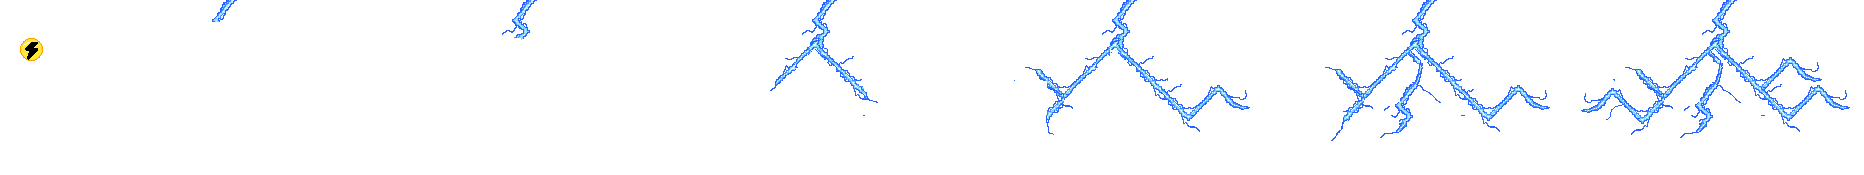
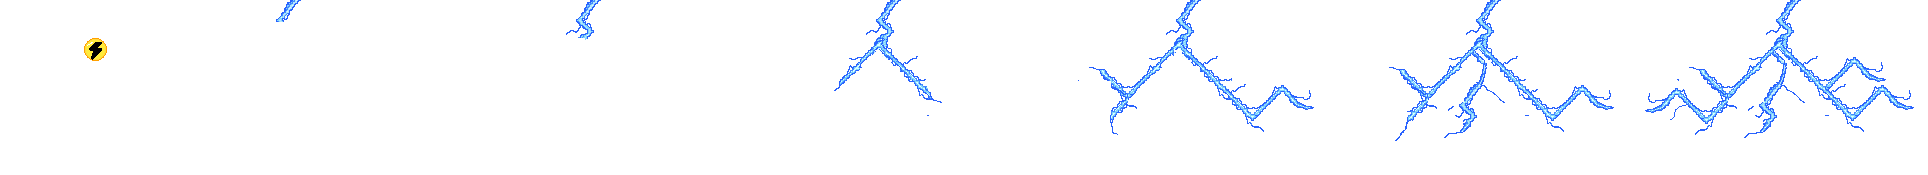
Add lightning animation

diff --git a/source/core/src/main/com/deco2800/game/components/powerups/LightningPowerUpComponent.java b/source/core/src/main/com/deco2800/game/components/powerups/LightningPowerUpComponent.java
@@ -2,6 +2,8 @@ package com.deco2800.game.components.powerups;
 
 import com.deco2800.game.entities.Entity;
 import com.deco2800.game.entities.factories.EntityTypes;
+import com.deco2800.game.physics.components.PhysicsComponent;
+import com.deco2800.game.rendering.AnimationRenderComponent;
 import com.deco2800.game.services.ServiceLocator;
 
 /**
@@ -9,9 +11,44 @@ import com.deco2800.game.services.ServiceLocator;
  * Lightning may only be activated once per pickup.
  */
 public class LightningPowerUpComponent extends PowerUpComponent {
+    boolean active;
+    Entity powerUp;
+
+    public void obtainPowerUp(Entity lightning) {
+        powerUp = lightning;
+    }
+
+    @Override
+    public void create() {
+        enabled = false;
+        active = false;
+    }
+
+    /**
+     * Checks if the lightning power up is active and starts the animation.
+     * The power up is then disposed after use.
+     */
+    @Override
+    public void update() {
+        if (active) {
+            if (powerUp.getComponent(AnimationRenderComponent.class).getCurrentAnimation().equals("float")) {
+                if (powerUp.getComponent(AnimationRenderComponent.class).isFinished()) {
+                    active = false;
+                    powerUp.flagDelete();
+                }
+            }
+        }
+    }
 
     @Override
     public void activate() {
+        active = true;
+
+        powerUp.setPosition(entity.getCenterPosition().sub(9f,4));
+        powerUp.setScale(20f, 15f);
+        powerUp.getComponent(AnimationRenderComponent.class).stopAnimation();
+        powerUp.getComponent(AnimationRenderComponent.class).startAnimation("float");
+
         // If the enemy is a wolf or skeleton within 8 metres, dispose
         for (Entity enemy : ServiceLocator.getEntityService().getEntityArray()) {
             if (enemy.getType() == EntityTypes.WOLF ||enemy.getType() == EntityTypes.SKELETON) {

diff --git a/source/core/src/main/com/deco2800/game/entities/factories/PowerUpFactory.java b/source/core/src/main/com/deco2800/game/entities/factories/PowerUpFactory.java
@@ -31,11 +31,22 @@ public class PowerUpFactory {
      */
     public static Entity createLightningPowerUp() {
         Entity powerUp = createBasePowerUp();
-        powerUp.addComponent(new TextureRenderComponent(
-                        "images/powerup-lightning.png"));
+
+        AnimationRenderComponent animator =
+            new AnimationRenderComponent(ServiceLocator.getResourceService()
+                .getAsset("images/lightning-animation.atlas", TextureAtlas.class));
+
+        animator.addAnimation("icon", 1f, Animation.PlayMode.LOOP);
+        animator.addAnimation("blank", 1f, Animation.PlayMode.LOOP);
+        animator.addAnimation("float", 0.2f, Animation.PlayMode.NORMAL);
+
+        powerUp.addComponent(animator);
+        powerUp.getComponent(AnimationRenderComponent.class).startAnimation("icon");
 
         powerUp.getComponent(HitboxComponent.class).setAsCircleAligned(0.2f,
                 PhysicsComponent.AlignX.CENTER, PhysicsComponent.AlignY.BOTTOM);
+        powerUp.getComponent(ColliderComponent.class).setAsCircleAligned(0.2f,
+            PhysicsComponent.AlignX.CENTER, PhysicsComponent.AlignY.BOTTOM);
 
         powerUp.setType(EntityTypes.LIGHTNINGPOWERUP);
 
@@ -64,6 +75,9 @@ public class PowerUpFactory {
         shield.set(shieldPoints);
         powerUp.getComponent(HitboxComponent.class).setShape(shield);
         powerUp.setType(EntityTypes.SHIELDPOWERUP);
+
+        powerUp.getEvents().addListener("dispose",
+            powerUp::flagDelete);
 
         return powerUp;
     }
@@ -118,8 +132,6 @@ public class PowerUpFactory {
                         .addComponent(new HitboxComponent());
 
         powerUp.getComponent(PhysicsComponent.class).setGravityScale(5.0f);
-        powerUp.getEvents().addListener("dispose",
-                powerUp::flagDelete);
 
         return powerUp;
     }

diff --git a/source/core/src/main/com/deco2800/game/components/player/PlayerActions.java b/source/core/src/main/com/deco2800/game/components/player/PlayerActions.java
@@ -264,7 +264,14 @@ public class PlayerActions extends Component {
   public void obtainPowerUp(Entity powerUp) {
     switch (powerUp.getType()) {
       case LIGHTNINGPOWERUP:
+        powerUp.getComponent(ColliderComponent.class).setEnabled(false);
+        powerUp.getComponent(PhysicsComponent.class).getBody().setGravityScale(0);
+
         entity.getComponent(LightningPowerUpComponent.class).setEnabled(true);
+        entity.getComponent(LightningPowerUpComponent.class).obtainPowerUp(powerUp);
+
+        powerUp.getComponent(AnimationRenderComponent.class).stopAnimation();
+        powerUp.getComponent(AnimationRenderComponent.class).startAnimation("blank");
         break;
 
       case SPEARPOWERUP:
@@ -287,7 +294,6 @@ public class PlayerActions extends Component {
       case LIGHTNINGPOWERUP:
         if (entity.getComponent(LightningPowerUpComponent.class).getEnabled()) {
           entity.getComponent(LightningPowerUpComponent.class).activate();
-          entity.getComponent(LightningPowerUpComponent.class).setEnabled(false);
         }
         break;
 

diff --git a/source/core/src/main/com/deco2800/game/entities/factories/ProjectileFactory.java b/source/core/src/main/com/deco2800/game/entities/factories/ProjectileFactory.java
@@ -45,6 +45,7 @@ public class ProjectileFactory {
                 .addComponent(new TouchAttackComponent(PhysicsLayer.PLAYER, 0f))
                 .addComponent(new CombatStatsComponent(1, 100));
 
+        baseProjectile.getComponent(PhysicsComponent.class).setGravityScale(5f);
         baseProjectile.getComponent(TextureRenderComponent.class).scaleEntity();
         baseProjectile.setScale(1f, 0.5f);
         PhysicsUtils.setScaledCollider(baseProjectile, 1f, 1f);

diff --git a/source/core/src/main/com/deco2800/game/areas/RacerArea.java b/source/core/src/main/com/deco2800/game/areas/RacerArea.java
@@ -71,7 +71,7 @@ public class RacerArea extends GameArea {
         "images/deathGiant.atlas",
         "images/skeleton.atlas",
         "images/playerspear.atlas",
-        "images/powerup-lightning-animation.atlas"
+        "images/lightning-animation.atlas"
     };
     private static final String[] forestSounds = {"sounds/Impact4.ogg"};
     private static final String mainMusic = "sounds/main.mp3";
